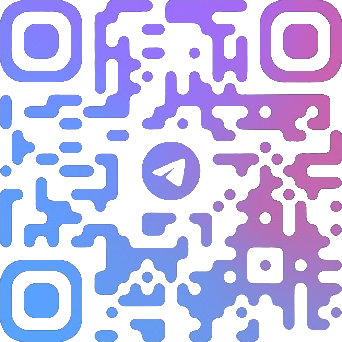
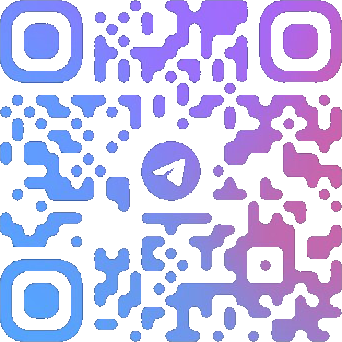
обновлены QR и ссылки на Telegram

diff --git a/static/index.html b/static/index.html
@@ -435,16 +435,16 @@
             <div class="box mt-5">
                 <div class="footer-qrs">
                     <div class="footer-qr">
-                        <a href="https://t.me/miami_cash_links" target="_blank">
+                        <a href="https://t.me/miami_cash_linkz" target="_blank">
                             <img src="static/img/qr_tg_team.png" width="120" height="120"/>
                         </a>
                         <div>
-                            <a href="https://t.me/miami_cash_links" target="_blank">
+                            <a href="https://t.me/miami_cash_linkz" target="_blank">
                                 <span class="icon">
                                     <i class="fa-brands fa-telegram"></i>
                                 </span>
                                 OUR CHANNEL:<br>
-                                @MIAMI_CASH_LINKS
+                                @MIAMI_CASH_LINKZ
                             </a>
                         </div>
                     </div>

diff --git a/static/profile.html b/static/profile.html
@@ -251,11 +251,11 @@
             <div class="box mt-5">
                 <div class="footer-qrs">
                     <div class="footer-qr">
-                        <a href="https://t.me/miami_cash_links" target="_blank">
+                        <a href="https://t.me/miami_cash_linkz" target="_blank">
                             <img src="static/img/qr_tg_team.png" width="120" height="120"/>
                         </a>
                         <div>
-                            <a href="https://t.me/miami_cash_links" target="_blank">
+                            <a href="https://t.me/miami_cash_linkz" target="_blank">
                                 <span class="icon">
                                     <i class="fa-brands fa-telegram"></i>
                                 </span>

diff --git a/static/purchases.html b/static/purchases.html
@@ -158,11 +158,11 @@
             <div class="box mt-5">
                 <div class="footer-qrs">
                     <div class="footer-qr">
-                        <a href="https://t.me/miami_cash_links" target="_blank">
+                        <a href="https://t.me/miami_cash_linkz" target="_blank">
                             <img src="static/img/qr_tg_team.png" width="120" height="120"/>
                         </a>
                         <div>
-                            <a href="https://t.me/miami_cash_links" target="_blank">
+                            <a href="https://t.me/miami_cash_linkz" target="_blank">
                                 <span class="icon">
                                     <i class="fa-brands fa-telegram"></i>
                                 </span>

diff --git a/static/seller.html b/static/seller.html
@@ -678,11 +678,11 @@
             <div class="box mt-5">
                 <div class="footer-qrs">
                     <div class="footer-qr">
-                        <a href="https://t.me/miami_cash_links" target="_blank">
+                        <a href="https://t.me/miami_cash_linkz" target="_blank">
                             <img src="static/img/qr_tg_team.png" width="120" height="120"/>
                         </a>
                         <div>
-                            <a href="https://t.me/miami_cash_links" target="_blank">
+                            <a href="https://t.me/miami_cash_linkz" target="_blank">
                                 <span class="icon">
                                     <i class="fa-brands fa-telegram"></i>
                                 </span>

diff --git a/static/topup.html b/static/topup.html
@@ -127,11 +127,11 @@
             <div class="box mt-5">
                 <div class="footer-qrs">
                     <div class="footer-qr">
-                        <a href="https://t.me/miami_cash_links" target="_blank">
+                        <a href="https://t.me/miami_cash_linkz" target="_blank">
                             <img src="static/img/qr_tg_team.png" width="120" height="120"/>
                         </a>
                         <div>
-                            <a href="https://t.me/miami_cash_links" target="_blank">
+                            <a href="https://t.me/miami_cash_linkz" target="_blank">
                                 <span class="icon">
                                     <i class="fa-brands fa-telegram"></i>
                                 </span>

diff --git a/static/news.html b/static/news.html
@@ -80,11 +80,11 @@
             <div class="box mt-5">
                 <div class="footer-qrs">
                     <div class="footer-qr">
-                        <a href="https://t.me/miami_cash_links" target="_blank">
+                        <a href="https://t.me/miami_cash_linkz" target="_blank">
                             <img src="static/img/qr_tg_team.png" width="120" height="120"/>
                         </a>
                         <div>
-                            <a href="https://t.me/miami_cash_links" target="_blank">
+                            <a href="https://t.me/miami_cash_linkz" target="_blank">
                                 <span class="icon">
                                     <i class="fa-brands fa-telegram"></i>
                                 </span>

diff --git a/static/rules.html b/static/rules.html
@@ -59,11 +59,11 @@
             <div class="box mt-5">
                 <div class="footer-qrs">
                     <div class="footer-qr">
-                        <a href="https://t.me/miami_cash_links" target="_blank">
+                        <a href="https://t.me/miami_cash_linkz" target="_blank">
                             <img src="static/img/qr_tg_team.png" width="120" height="120"/>
                         </a>
                         <div>
-                            <a href="https://t.me/miami_cash_links" target="_blank">
+                            <a href="https://t.me/miami_cash_linkz" target="_blank">
                                 <span class="icon">
                                     <i class="fa-brands fa-telegram"></i>
                                 </span>

diff --git a/static/support.html b/static/support.html
@@ -59,11 +59,11 @@
             <div class="box mt-5">
                 <div class="footer-qrs">
                     <div class="footer-qr">
-                        <a href="https://t.me/miami_cash_links" target="_blank">
+                        <a href="https://t.me/miami_cash_linkz" target="_blank">
                             <img src="static/img/qr_tg_team.png" width="120" height="120"/>
                         </a>
                         <div>
-                            <a href="https://t.me/miami_cash_links" target="_blank">
+                            <a href="https://t.me/miami_cash_linkz" target="_blank">
                                 <span class="icon">
                                     <i class="fa-brands fa-telegram"></i>
                                 </span>
